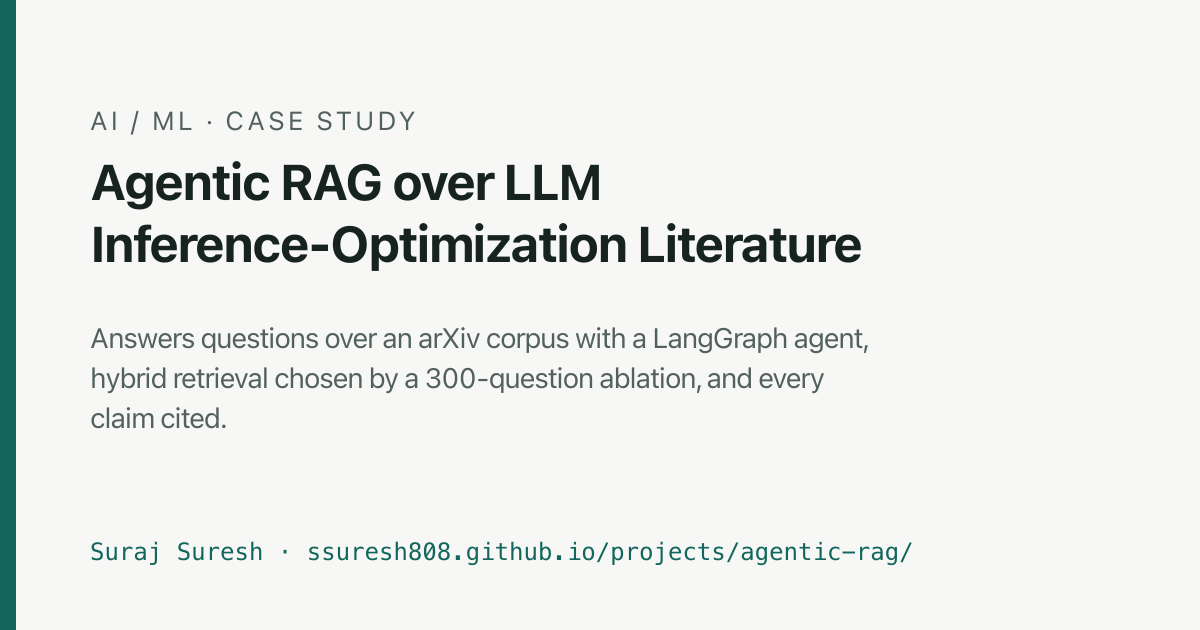
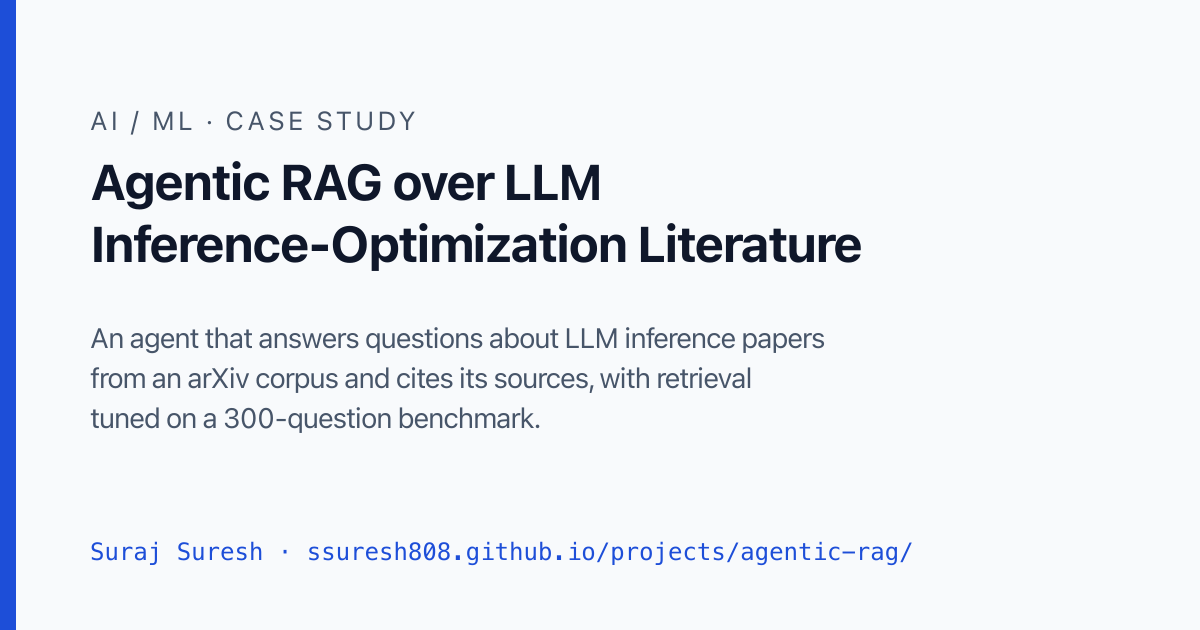
design: navy and slate palette, entrance and hover motion with reduced-motion and no-JS fallbacks

diff --git a/scripts/make-og-image.ts b/scripts/make-og-image.ts
@@ -25,8 +25,8 @@ function wrap(text: string, maxChars: number, maxLines: number): string[] {
 
 function frame(inner: string): string {
   return `<svg xmlns="http://www.w3.org/2000/svg" width="1200" height="630">
-  <rect width="1200" height="630" fill="#F7F8F6"/>
-  <rect x="0" y="0" width="16" height="630" fill="#12665C"/>
+  <rect width="1200" height="630" fill="#f8fafc"/>
+  <rect x="0" y="0" width="16" height="630" fill="#1d4ed8"/>
   ${inner}
 </svg>`;
 }
@@ -44,14 +44,14 @@ async function home() {
     }),
   );
   const svg = frame(`
-  <text x="90" y="110" font-family="Inter, system-ui, sans-serif" font-size="26" fill="#52615D" letter-spacing="4">ENGINEERING PORTFOLIO</text>
-  <text x="90" y="200" font-family="Inter, system-ui, sans-serif" font-size="76" font-weight="700" fill="#172321">Suraj Suresh</text>
-  <text x="90" y="262" font-family="Inter, system-ui, sans-serif" font-size="32" fill="#172321">I build and evaluate AI systems end to end.</text>
-  <text x="90" y="585" font-family="IBM Plex Mono, ui-monospace, monospace" font-size="24" fill="#12665C">ssuresh808.github.io</text>`);
+  <text x="90" y="110" font-family="Inter, system-ui, sans-serif" font-size="26" fill="#475569" letter-spacing="4">ENGINEERING PORTFOLIO</text>
+  <text x="90" y="200" font-family="Inter, system-ui, sans-serif" font-size="76" font-weight="700" fill="#0f172a">Suraj Suresh</text>
+  <text x="90" y="262" font-family="Inter, system-ui, sans-serif" font-size="32" fill="#0f172a">I build and evaluate AI systems end to end.</text>
+  <text x="90" y="585" font-family="IBM Plex Mono, ui-monospace, monospace" font-size="24" fill="#1d4ed8">ssuresh808.github.io</text>`);
   const composites = tiles.map((input, i) => ({ input, left: 90 + i * (tileW + 30), top: 320 }));
   const frames = featured.map(() =>
     Buffer.from(
-      `<svg xmlns="http://www.w3.org/2000/svg" width="${tileW + 4}" height="${tileH + 4}"><rect x="1" y="1" width="${tileW + 2}" height="${tileH + 2}" rx="12" fill="none" stroke="#DCE5E1" stroke-width="2"/></svg>`,
+      `<svg xmlns="http://www.w3.org/2000/svg" width="${tileW + 4}" height="${tileH + 4}"><rect x="1" y="1" width="${tileW + 2}" height="${tileH + 2}" rx="12" fill="none" stroke="#e2e8f0" stroke-width="2"/></svg>`,
     ),
   );
   await sharp(Buffer.from(svg))
@@ -69,14 +69,14 @@ async function projects() {
   for (const p of getPublishedProjects()) {
     const title = wrap(p.title, 36, 3);
     const tagline = wrap(p.tagline, 62, 3);
-    const titleSvg = title.map((l, i) => `<text x="90" y="${200 + i * 62}" font-family="Inter, system-ui, sans-serif" font-size="50" font-weight="700" fill="#172321">${esc(l)}</text>`).join('');
+    const titleSvg = title.map((l, i) => `<text x="90" y="${200 + i * 62}" font-family="Inter, system-ui, sans-serif" font-size="50" font-weight="700" fill="#0f172a">${esc(l)}</text>`).join('');
     const tagY = 200 + title.length * 62 + 24;
-    const tagSvg = tagline.map((l, i) => `<text x="90" y="${tagY + i * 40}" font-family="Inter, system-ui, sans-serif" font-size="28" fill="#52615D">${esc(l)}</text>`).join('');
+    const tagSvg = tagline.map((l, i) => `<text x="90" y="${tagY + i * 40}" font-family="Inter, system-ui, sans-serif" font-size="28" fill="#475569">${esc(l)}</text>`).join('');
     const svg = frame(`
-  <text x="90" y="130" font-family="Inter, system-ui, sans-serif" font-size="26" fill="#52615D" letter-spacing="4">${esc(CATEGORY_LABELS[p.category].toUpperCase())}  ·  CASE STUDY</text>
+  <text x="90" y="130" font-family="Inter, system-ui, sans-serif" font-size="26" fill="#475569" letter-spacing="4">${esc(CATEGORY_LABELS[p.category].toUpperCase())}  ·  CASE STUDY</text>
   ${titleSvg}
   ${tagSvg}
-  <text x="90" y="560" font-family="IBM Plex Mono, ui-monospace, monospace" font-size="24" fill="#12665C">Suraj Suresh  ·  ssuresh808.github.io/projects/${esc(p.slug)}/</text>`);
+  <text x="90" y="560" font-family="IBM Plex Mono, ui-monospace, monospace" font-size="24" fill="#1d4ed8">Suraj Suresh  ·  ssuresh808.github.io/projects/${esc(p.slug)}/</text>`);
     const out = `public/og/${p.slug}.png`;
     await sharp(Buffer.from(svg)).png().toFile(out);
     console.log(`wrote ${out}`);

diff --git a/src/app/globals.css b/src/app/globals.css
@@ -1,13 +1,13 @@
 @import 'tailwindcss';
 
 @theme {
-  --color-bg: #f7f8f6;
+  --color-bg: #f8fafc;
   --color-surface: #ffffff;
-  --color-ink: #172321;
-  --color-muted: #52615d;
-  --color-accent: #12665c;
-  --color-accent-tint: #e7f2ef;
-  --color-border: #dce5e1;
+  --color-ink: #0f172a;
+  --color-muted: #475569;
+  --color-accent: #1d4ed8;
+  --color-accent-tint: #eff6ff;
+  --color-border: #e2e8f0;
   --color-on-accent: #ffffff;
   --color-warn-bg: #fffbeb;
   --color-warn-text: #78350f;
@@ -32,28 +32,28 @@ html {
 @media (prefers-color-scheme: dark) {
   :root:not([data-theme]) {
     color-scheme: dark;
-    --color-bg: #0f1716;
-    --color-surface: #172321;
-    --color-ink: #e8efec;
-    --color-muted: #a3b3ae;
-    --color-accent: #5fc3b3;
-    --color-accent-tint: #163531;
-    --color-border: #2a3a36;
-    --color-on-accent: #0f1716;
+    --color-bg: #0b1220;
+    --color-surface: #111a2e;
+    --color-ink: #e2e8f0;
+    --color-muted: #94a3b8;
+    --color-accent: #60a5fa;
+    --color-accent-tint: #172554;
+    --color-border: #22304a;
+    --color-on-accent: #0b1220;
     --color-warn-bg: #3a2a08;
     --color-warn-text: #fde68a;
     --color-warn-border: #a16207;
   }
 }
 :root[data-theme='dark'] {
-  --color-bg: #0f1716;
-  --color-surface: #172321;
-  --color-ink: #e8efec;
-  --color-muted: #a3b3ae;
-  --color-accent: #5fc3b3;
-  --color-accent-tint: #163531;
-  --color-border: #2a3a36;
-  --color-on-accent: #0f1716;
+  --color-bg: #0b1220;
+  --color-surface: #111a2e;
+  --color-ink: #e2e8f0;
+  --color-muted: #94a3b8;
+  --color-accent: #60a5fa;
+  --color-accent-tint: #172554;
+  --color-border: #22304a;
+  --color-on-accent: #0b1220;
   --color-warn-bg: #3a2a08;
   --color-warn-text: #fde68a;
   --color-warn-border: #a16207;
@@ -253,4 +253,62 @@ body {
     letter-spacing: 0.06em;
     color: var(--color-muted);
   }
+}
+
+/* Motion. Entrance reveals only run when JavaScript has marked the page (html.js); without it, or with
+   reduced motion, everything is simply visible. */
+html.js [data-reveal] {
+  opacity: 0;
+  transform: translateY(12px);
+  transition:
+    opacity 0.5s ease,
+    transform 0.5s ease;
+  transition-delay: calc(var(--reveal-i, 0) * 70ms);
+}
+html.js [data-reveal].is-visible {
+  opacity: 1;
+  transform: none;
+}
+@media (prefers-reduced-motion: reduce) {
+  html.js [data-reveal] {
+    opacity: 1;
+    transform: none;
+    transition: none;
+  }
+}
+
+.card-hover {
+  transition:
+    transform 0.25s ease,
+    box-shadow 0.25s ease,
+    border-color 0.25s ease;
+}
+.card-hover:hover,
+.card-hover:focus-within {
+  transform: translateY(-2px);
+  box-shadow: 0 12px 32px -16px rgb(15 23 42 / 0.25);
+}
+
+@keyframes page-enter {
+  from {
+    opacity: 0;
+    transform: translateY(6px);
+  }
+  to {
+    opacity: 1;
+    transform: none;
+  }
+}
+.page-enter {
+  animation: page-enter 0.35s ease both;
+}
+
+html.theme-transition,
+html.theme-transition *,
+html.theme-transition *::before,
+html.theme-transition *::after {
+  transition:
+    background-color 0.3s ease,
+    border-color 0.3s ease,
+    color 0.3s ease !important;
 }

diff --git a/tests/e2e/motion.spec.ts b/tests/e2e/motion.spec.ts
@@ -1,0 +1,35 @@
+import { test, expect } from '@playwright/test';
+
+test('sections and cards fade in as they enter the viewport', async ({ page }) => {
+  await page.goto('/');
+  const firstCard = page.getByTestId('project-card').first();
+  await firstCard.scrollIntoViewIfNeeded();
+  await expect(firstCard).toHaveClass(/is-visible/);
+  await expect(firstCard).toHaveCSS('opacity', '1');
+  await page.locator('#skills').scrollIntoViewIfNeeded();
+  await expect(page.locator('#skills [data-reveal]').first()).toHaveClass(/is-visible/);
+});
+
+test('content is fully visible without JavaScript', async ({ browser, baseURL }) => {
+  const context = await browser.newContext({ javaScriptEnabled: false });
+  const page = await context.newPage();
+  await page.goto(`${baseURL}/`);
+  const card = page.getByTestId('project-card').first();
+  await expect(card).toBeVisible();
+  await expect(card).toHaveCSS('opacity', '1');
+  await context.close();
+});
+
+test('reduced motion shows everything immediately with no transition', async ({ browser, baseURL }) => {
+  const context = await browser.newContext({ reducedMotion: 'reduce' });
+  const page = await context.newPage();
+  await page.goto(`${baseURL}/`);
+  const far = page.locator('#education [data-reveal]').first();
+  const styles = await far.evaluate((el) => {
+    const cs = getComputedStyle(el);
+    return { opacity: cs.opacity, transition: cs.transitionDuration };
+  });
+  expect(styles.opacity).toBe('1');
+  expect(styles.transition.split(',').every((d) => parseFloat(d) < 0.02)).toBe(true);
+  await context.close();
+});

diff --git a/src/app/template.tsx b/src/app/template.tsx
@@ -1,0 +1,46 @@
+'use client';
+
+import { useEffect, useRef, type ReactNode } from 'react';
+
+/**
+ * Wraps each page. Remounts on navigation, so it runs the entrance animation and
+ * wires the reveal-on-scroll observer for the elements of the new page.
+ */
+export default function Template({ children }: { children: ReactNode }) {
+  const ref = useRef<HTMLDivElement>(null);
+
+  useEffect(() => {
+    document.documentElement.classList.add('js');
+    const root = ref.current;
+    if (!root) return;
+    const targets = root.querySelectorAll<HTMLElement>('[data-reveal]');
+    if (!('IntersectionObserver' in window)) {
+      targets.forEach((el) => el.classList.add('is-visible'));
+      return;
+    }
+    const observer = new IntersectionObserver(
+      (entries) => {
+        for (const entry of entries) {
+          if (entry.isIntersecting) {
+            entry.target.classList.add('is-visible');
+            observer.unobserve(entry.target);
+          }
+        }
+      },
+      { threshold: 0.08, rootMargin: '0px 0px -5% 0px' },
+    );
+    targets.forEach((el) => observer.observe(el));
+    // Safety net: whatever has not scrolled into view yet becomes visible anyway after a few seconds.
+    const fallback = window.setTimeout(() => targets.forEach((el) => el.classList.add('is-visible')), 2500);
+    return () => {
+      observer.disconnect();
+      window.clearTimeout(fallback);
+    };
+  }, []);
+
+  return (
+    <div ref={ref} className="page-enter">
+      {children}
+    </div>
+  );
+}

diff --git a/tests/e2e/theme.spec.ts b/tests/e2e/theme.spec.ts
@@ -1,12 +1,14 @@
 import { test, expect } from '@playwright/test';
 import AxeBuilder from '@axe-core/playwright';
+import { settle } from './helpers';
 
 test('follows the system color scheme by default', async ({ browser }) => {
   const context = await browser.newContext({ colorScheme: 'dark' });
   const page = await context.newPage();
   await page.goto('http://localhost:3000/');
+  await expect(page.locator('html')).toHaveAttribute('data-theme', 'dark');
   const bg = await page.evaluate(() => getComputedStyle(document.body).backgroundColor);
-  expect(bg).not.toBe('rgb(247, 248, 246)'); // light background token
+  expect(bg).toBe('rgb(11, 18, 32)'); // dark background token
   await context.close();
 });
 
@@ -27,6 +29,7 @@ test.describe('dark theme accessibility', () => {
   for (const route of ['/', '/projects/agentic-rag/', '/projects/lifelens/', '/about/', '/notes/']) {
     test(`${route} has no WCAG 2.2 AA violations in dark mode`, async ({ page }) => {
       await page.goto(route);
+      await settle(page);
       const results = await new AxeBuilder({ page }).withTags(['wcag2a', 'wcag2aa', 'wcag21aa', 'wcag22aa']).analyze();
       expect(results.violations, JSON.stringify(results.violations, null, 2)).toEqual([]);
     });

diff --git a/src/components/projects/ProjectCard.tsx b/src/components/projects/ProjectCard.tsx
@@ -5,13 +5,15 @@ import { Chip } from '@/components/common/Chip';
 import { CATEGORY_LABELS } from '@/lib/schemas/project';
 import type { ProjectCardData } from '@/lib/projects';
 
-export function ProjectCard({ project }: { project: ProjectCardData }) {
+export function ProjectCard({ project, index = 0 }: { project: ProjectCardData; index?: number }) {
   const href = `/projects/${project.slug}/`;
   return (
     <article
       data-testid="project-card"
       data-featured={project.featured}
-      className="group relative flex h-full flex-col overflow-hidden rounded-card border border-border bg-surface transition-colors focus-within:border-accent hover:border-accent"
+      data-reveal
+      style={{ '--reveal-i': index } as React.CSSProperties}
+      className="card-hover group relative flex h-full flex-col overflow-hidden rounded-card border border-border bg-surface focus-within:border-accent hover:border-accent"
     >
       <div className="relative aspect-[16/10] w-full border-b border-border bg-accent-tint">
         <Image

diff --git a/tests/e2e/helpers.ts b/tests/e2e/helpers.ts
@@ -1,0 +1,16 @@
+import type { Page } from '@playwright/test';
+
+/** Scrolls through the page so every reveal element has entered the viewport, then waits for animations to finish. */
+export async function settle(page: Page): Promise<void> {
+  await page.evaluate(async () => {
+    const step = Math.max(200, Math.floor(window.innerHeight * 0.8));
+    for (let y = 0; y <= document.documentElement.scrollHeight; y += step) {
+      window.scrollTo(0, y);
+      await new Promise((r) => setTimeout(r, 30));
+    }
+    window.scrollTo(0, 0);
+  });
+  await page.waitForFunction(() => document.querySelectorAll('[data-reveal]:not(.is-visible)').length === 0 || !document.documentElement.classList.contains('js'));
+  await page.evaluate(() => Promise.all(document.getAnimations().map((a) => a.finished.catch(() => undefined))));
+  await page.waitForTimeout(100);
+}

diff --git a/src/components/home/Hero.tsx b/src/components/home/Hero.tsx
@@ -9,7 +9,7 @@ export function Hero({ profile }: { profile: Profile }) {
   return (
     <section className="border-b border-border bg-surface">
       <div className="mx-auto grid max-w-site gap-10 px-4 py-16 sm:px-6 lg:grid-cols-[1fr_auto] lg:items-center lg:px-8 lg:py-24">
-        <div className="max-w-3xl">
+        <div data-reveal className="max-w-3xl">
           <p className="font-mono text-xs uppercase tracking-[0.12em] text-muted">Engineering portfolio</p>
           <h1 className="mt-3 text-4xl font-semibold tracking-tight sm:text-5xl">{profile.name}</h1>
           <p className="mt-4 text-2xl font-medium leading-snug text-ink sm:text-3xl">{profile.headline}</p>

diff --git a/src/components/common/Section.tsx b/src/components/common/Section.tsx
@@ -12,7 +12,7 @@ export function Section({ id, eyebrow, title, children, className = '' }: Sectio
   const headingId = id && title ? `${id}-heading` : undefined;
   return (
     <section id={id} aria-labelledby={headingId} className={`py-12 sm:py-16 ${className}`}>
-      <div className="mx-auto max-w-site px-4 sm:px-6 lg:px-8">
+      <div data-reveal className="mx-auto max-w-site px-4 sm:px-6 lg:px-8">
         <p className="font-mono text-xs uppercase tracking-[0.12em] text-muted">{eyebrow}</p>
         {title ? (
           <h2 id={headingId} className="mt-2 text-2xl font-semibold tracking-tight sm:text-3xl">

diff --git a/tests/e2e/a11y.spec.ts b/tests/e2e/a11y.spec.ts
@@ -1,5 +1,6 @@
 import { test, expect } from '@playwright/test';
 import AxeBuilder from '@axe-core/playwright';
+import { settle } from './helpers';
 
 const routes = [
   '/',
@@ -15,6 +16,7 @@ const routes = [
 for (const route of routes) {
   test(`${route} has no WCAG 2.2 AA violations`, async ({ page }) => {
     await page.goto(route);
+    await settle(page);
     const results = await new AxeBuilder({ page }).withTags(['wcag2a', 'wcag2aa', 'wcag21aa', 'wcag22aa']).analyze();
     expect(results.violations, JSON.stringify(results.violations, null, 2)).toEqual([]);
   });

diff --git a/src/app/notes/page.tsx b/src/app/notes/page.tsx
@@ -21,7 +21,7 @@ export default function NotesPage() {
       </p>
       <ul className="mt-8 max-w-3xl space-y-6">
         {notes.map((n) => (
-          <li key={n.slug} className="rounded-card border border-border bg-surface p-6">
+          <li key={n.slug} data-reveal className="card-hover rounded-card border border-border bg-surface p-6">
             <div className="flex flex-wrap items-center gap-2">
               <time dateTime={n.publishedAt} className="font-mono text-xs text-muted">
                 {formatIsoDate(n.publishedAt)}

diff --git a/src/components/projects/ProjectGallery.tsx b/src/components/projects/ProjectGallery.tsx
@@ -47,9 +47,9 @@ export function ProjectGallery({ projects }: { projects: ProjectCardData[] }) {
         {filter === 'all' ? '' : ` in ${CATEGORY_LABELS[filter]}`}
       </p>
       <ul className="mt-6 grid gap-6 sm:grid-cols-2 lg:grid-cols-3">
-        {visible.map((p) => (
+        {visible.map((p, i) => (
           <li key={p.slug} className="h-full">
-            <ProjectCard project={p} />
+            <ProjectCard project={p} index={i} />
           </li>
         ))}
       </ul>
